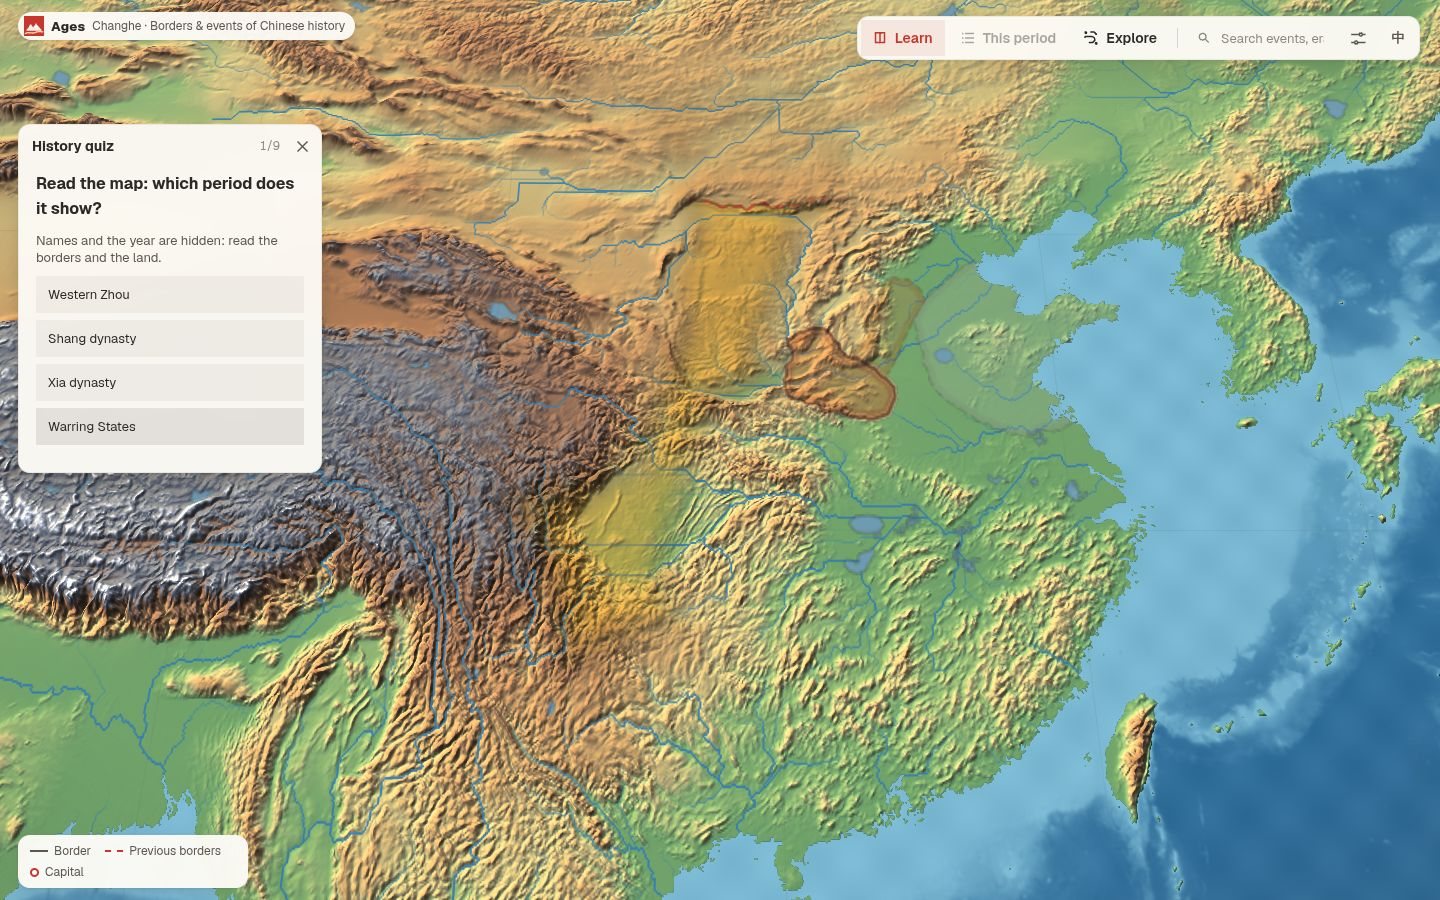
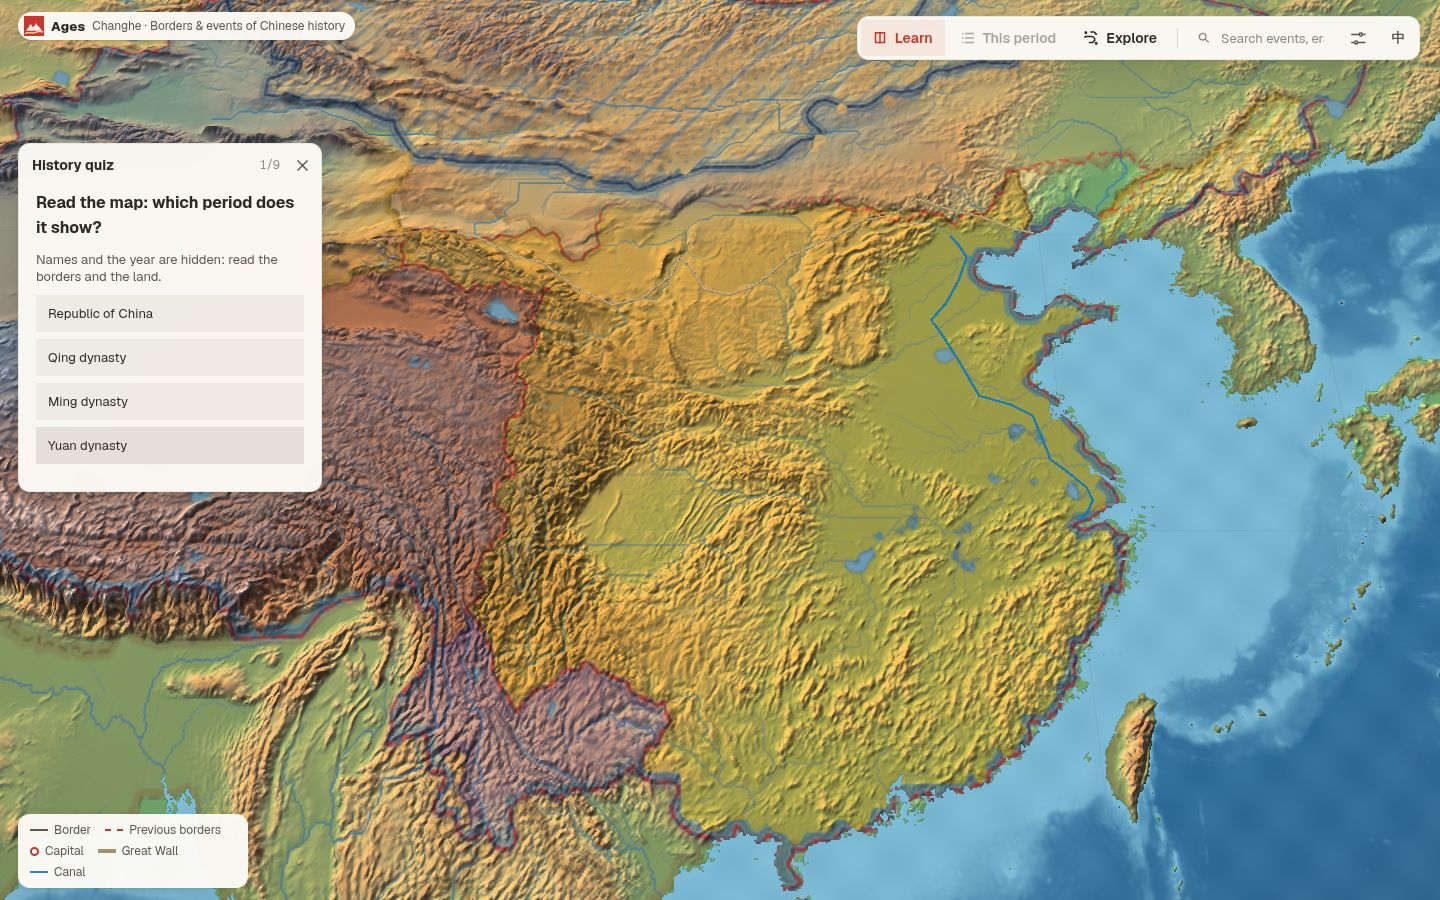
feat(quiz): 读图题 'what changed' — from a map to the next, which polity appears, is gone, grows or shrinks (#3)
The answer is the largest real change between consecutive maps (renamed or continued polities excluded, so 曹操(兖豫) → 曹操(北方) is not a change); wrong options are statements the two maps contradict, the reverse of a real change first, never about a polity named like the answer.

diff --git a/src/shared/lib/mapread.ts b/src/shared/lib/mapread.ts
@@ -11,9 +11,10 @@ import { eraAt, formatYear } from './timeline.ts';
  * - `period`: which period is this map?
  * - `polity`: which polity is highlighted? (the year is given)
  * - `first`: which of two maps, A or B, is earlier?
+ * - `change`: from map A to the next map B, what changed? (a polity appears, is gone, grows or shrinks)
  * Every question is generated from the territory snapshots, so it is always true to the map shown.
  */
-export type MapKind = 'period' | 'polity' | 'first';
+export type MapKind = 'period' | 'polity' | 'first' | 'change';
 export interface MapQuestion {
   type: 'map';
   kind: MapKind;
@@ -129,6 +130,96 @@ function firstQuestion(a: MapSnap, b: MapSnap): MapQuestion {
   };
 }
 
+/** A change between two maps: one polity's appearing, going, growing or shrinking (areas in thousand km²). */
+type ChangeKind = 'appear' | 'vanish' | 'grow' | 'shrink';
+interface Change { c: ChangeKind; p: Polity; a: number; b: number }
+
+/** The maps in time order, and each one's next. */
+const ORDERED = SNAPS.slice().sort((x, y) => x.mid - y.mid);
+const nextMap = (x: MapSnap): MapSnap | undefined => ORDERED[ORDERED.indexOf(x) + 1];
+
+/** Each polity's first and last map (index in ORDERED): a polity "appears" only on its first map, "is gone" after its last. */
+const LIFE = new Map<string, [number, number]>();
+ORDERED.forEach((x, i) => { for (const [id] of snapPolities(x.snap.id)) { const l = LIFE.get(id); LIFE.set(id, l ? [l[0], i] : [i, i]); } });
+
+/**
+ * What really changed from `a` to `b` (largest first), and statements the two maps clearly contradict, most tempting
+ * first (tier 0: the reverse of a real change; 1: growing or shrinking; 2: appearing or going while on both maps).
+ */
+function changes(a: MapSnap, b: MapSnap): { real: Change[]; fake: (Change & { tier: number })[] } {
+  const area = (x: MapSnap) => new Map(snapPolities(x.snap.id));
+  const A = area(a), B = area(b);
+  const ia = ORDERED.indexOf(a), ib = ORDERED.indexOf(b);
+  const shown = new Map<string, Polity>();
+  for (const o of [...onMap(a), ...onMap(b)]) shown.set(o.p.id, o.p);
+  // a polity renamed or carried on (曹操(兖豫) → 曹操(北方), 晋 → 东晋) neither appears nor goes
+  const core = (p: Polity) => p.name.zh.split(/[（(]/)[0].trim();
+  const names = (m: Map<string, number>) => [...m.keys()].map(id => POLITY.get(id)).filter((p): p is Polity => !!p).map(core);
+  const NA = names(A), NB = names(B);
+  const kin = (p: Polity, list: string[]) => { const c = core(p); return list.some(n => n !== '' && c !== '' && (n.includes(c) || c.includes(n))); };
+  const real: Change[] = [], fake: (Change & { tier: number })[] = [];
+  for (const p of shown.values()) {
+    const ka = A.get(p.id) ?? 0, kb = B.get(p.id) ?? 0;
+    const o = { p, a: ka, b: kb };
+    const [first, last] = LIFE.get(p.id) ?? [ia, ib];
+    const side = p.role === 'protectorate' ? 1 : 0;
+    if (!ka) { if (kb >= 100 && first === ib && !kin(p, NA)) real.push({ ...o, c: 'appear' }); fake.push({ ...o, c: 'vanish', tier: side }); continue; }
+    if (!kb) { if (ka >= 100 && last === ia && !kin(p, NB)) real.push({ ...o, c: 'vanish' }); fake.push({ ...o, c: 'appear', tier: side }); continue; }
+    const grow = kb >= ka * 1.5 && kb - ka >= 200, shrink = ka >= kb * 1.5 && ka - kb >= 200;
+    if (grow) real.push({ ...o, c: 'grow' });
+    if (shrink) real.push({ ...o, c: 'shrink' });
+    if (kb <= ka * 1.1) fake.push({ ...o, c: 'grow', tier: shrink ? 0 : 1 + side });
+    if (kb >= ka * 0.9) fake.push({ ...o, c: 'shrink', tier: grow ? 0 : 1 + side });
+    fake.push({ ...o, c: 'appear', tier: 2 + side }, { ...o, c: 'vanish', tier: 2 + side });
+  }
+  real.sort((x, y) => Math.max(y.a, y.b) - Math.max(x.a, x.b) || x.p.id.localeCompare(y.p.id));
+  return { real, fake };
+}
+
+function changeText(x: Change): I18n {
+  const n = x.p.name;
+  return x.c === 'appear' ? both(l => (l === 'zh' ? `${n.zh}出现在地图上` : `${n.en} appears on the map`))
+    : x.c === 'vanish' ? both(l => (l === 'zh' ? `${n.zh}从地图上消失` : `${n.en} is gone from the map`))
+    : x.c === 'grow' ? both(l => (l === 'zh' ? `${n.zh}的疆域明显扩大` : `${n.en} grows markedly`))
+    : both(l => (l === 'zh' ? `${n.zh}的疆域明显缩小` : `${n.en} shrinks markedly`));
+}
+
+/**
+ * From map A to the next map B, what changed? The right answer is the largest real change (so a missed question comes
+ * back the same); the wrong ones are statements the two maps clearly contradict, about other polities where possible.
+ */
+function changeQuestion(a: MapSnap, b: MapSnap, r: () => number): MapQuestion | null {
+  const { real, fake } = changes(a, b);
+  const right = real[0];
+  if (!right) return null;
+  // not about the answer's polity, nor one named like it (孙权(江东) next to 孙权(荆扬), two 奉系（张作霖）)
+  const plain = right.p.name.zh.replace(/[\s·・()（）\d年起]/g, '');
+  const pairs = Array.from({ length: Math.max(1, plain.length - 1) }, (_, i) => plain.slice(i, i + 2));
+  const like = (p: Polity) => pairs.some(x => p.name.zh.includes(x));
+  const pool = shuffle(fake.filter(f => f.p.id !== right.p.id && !like(f.p)), r).sort((x, y) => x.tier - y.tier);
+  const used = new Set<string>();
+  // one statement per polity first, the most tempting first
+  const each = pool.filter(f => !used.has(f.p.id) && !!used.add(f.p.id));
+  const picks = [...each, ...pool.filter(f => !each.includes(f))].slice(0, 3);
+  if (picks.length < 3) return null;
+  const opts = shuffle([right, ...picks], r).map(changeText);
+  const o = { options: opts, answer: opts.findIndex(x => x.zh === changeText(right).zh) };
+  const k = (n: number, l: 'zh' | 'en') => formatArea(n, l);
+  return {
+    type: 'map', kind: 'change', key: `map:change:${a.snap.id}:${b.snap.id}`, years: [a.mid, b.mid], ...o,
+    prompt: both(l => (l === 'zh'
+      ? `读图：从地图 A（${formatYear(a.mid, l)}）到地图 B（${formatYear(b.mid, l)}），发生了什么变化？`
+      : `Read the maps: from map A (${formatYear(a.mid, l)}) to map B (${formatYear(b.mid, l)}), what changed?`)),
+    why: both(l => {
+      const t = changeText(right)[l];
+      const d = right.c === 'appear' ? k(right.b, l) : right.c === 'vanish' ? k(right.a, l) : `${k(right.a, l)} → ${k(right.b, l)}`;
+      return l === 'zh'
+        ? `${t}（${d}）。A 是${a.era.name.zh}，B 是${b.era.name.zh}。`
+        : `${t} (${d}). A is ${a.era.name.en}; B is ${b.era.name.en}.`;
+    }),
+  };
+}
+
 function firstPair(r: () => number, eras: Era[]): MapQuestion | null {
   for (let guard = 0; guard < 20; guard++) {
     const ea = pick(eras, r);
@@ -144,8 +235,18 @@ function firstPair(r: () => number, eras: Era[]): MapQuestion | null {
   return null;
 }
 
+/** A change question on a map in the round's years and the one after it. */
+function changePair(snaps: MapSnap[], r: () => number): MapQuestion | null {
+  for (const x of shuffle(snaps, r)) {
+    const y = nextMap(x);
+    const q = y && changeQuestion(x, y, r);
+    if (q) return q;
+  }
+  return null;
+}
+
 /**
- * A round of map-reading questions, cycling period → polity → first, one era at a time so every period is met
+ * A round of map-reading questions, cycling period → polity → first → change, one era at a time so every period is met
  * (optionally only the years `range`, for a chapter).
  */
 export function makeMapQuiz(opts: { n?: number; seed?: number; range?: [Year, Year] } = {}): MapQuestion[] {
@@ -163,8 +264,9 @@ export function makeMapQuiz(opts: { n?: number; seed?: number; range?: [Year, Ye
     const snaps = byEra(era.id).filter(x => x.mid >= lo && x.mid <= hi);
     if (!snaps.length) continue;
     const x = pick(snaps, r);
-    const kind: MapKind = (['period', 'polity', 'first'] as const)[i % 3];
-    const q = kind === 'period' ? periodQuestion(x, r) : kind === 'polity' ? polityQuestion(x, r) : firstPair(r, eras);
+    const kind: MapKind = (['period', 'polity', 'first', 'change'] as const)[i % 4];
+    const q = kind === 'period' ? periodQuestion(x, r) : kind === 'polity' ? polityQuestion(x, r)
+      : kind === 'first' ? firstPair(r, eras) : changePair(snaps, r);
     if (!q || used.has(q.key)) continue;
     used.add(q.key);
     out.push(q);
@@ -183,5 +285,6 @@ export function mapQuestionFromKey(key: string, seed = 1): MapQuestion | null {
   if (kind === 'period') return periodQuestion(x, r);
   if (kind === 'polity') return polityQuestion(x, r, b);
   const y = b ? SNAP.get(b) : undefined;
-  return kind === 'first' && y ? firstQuestion(x, y) : null;
+  if (!y) return null;
+  return kind === 'first' ? firstQuestion(x, y) : kind === 'change' ? changeQuestion(x, y, r) : null;
 }

diff --git a/tests/unit/mapread.test.ts b/tests/unit/mapread.test.ts
@@ -1,6 +1,7 @@
 import { describe, expect, it } from 'vitest';
 import { snapPolities } from '../../src/shared/data/areas.ts';
 import { SNAPSHOTS } from '../../src/shared/data/territories.ts';
+import { POLITIES } from '../../src/shared/data/polities.ts';
 import { makeMapQuiz, mapQuestionFromKey, MAP_ERAS } from '../../src/shared/lib/mapread.ts';
 import { makeMistakeQuiz } from '../../src/shared/lib/quiz.ts';
 import { phaseAt } from '../../src/shared/lib/chronicle.ts';
@@ -12,10 +13,10 @@ const HAN = /[㐀-鿿]/;
 describe('读图题 (map-reading questions)', () => {
   const rounds = Array.from({ length: 40 }, (_, s) => makeMapQuiz({ seed: s + 1 }));
 
-  it('makes full rounds that cycle the three kinds', () => {
+  it('makes full rounds that cycle the four kinds', () => {
     for (const qs of rounds) {
       expect(qs).toHaveLength(9);
-      expect(new Set(qs.map(q => q.kind))).toEqual(new Set(['period', 'polity', 'first']));
+      expect(new Set(qs.map(q => q.kind))).toEqual(new Set(['period', 'polity', 'first', 'change']));
       expect(new Set(qs.map(q => q.key)).size).toBe(qs.length);
     }
   });
@@ -49,6 +50,13 @@ describe('读图题 (map-reading questions)', () => {
         expect(q.answer).toBe(q.years[0] < q.years[1] ? 0 : 1);
         expect(Math.abs(q.years[0] - q.years[1])).toBeGreaterThanOrEqual(50);
       }
+      if (q.kind === 'change') {
+        // map A and the very next map B
+        const [, , a, b] = q.key.split(':');
+        expect(phaseAt(q.years[1])?.snap.id).toBe(b);
+        expect(q.years[0]).toBeLessThan(q.years[1]);
+        expect(a).not.toBe(b);
+      }
     }
   });
 
@@ -66,7 +74,7 @@ describe('读图题 (map-reading questions)', () => {
   it('keeps a chapter round within its years', () => {
     const qs = makeMapQuiz({ n: 6, seed: 5, range: [581, 907] });
     expect(qs.length).toBe(6);
-    for (const q of qs.filter(x => x.kind !== 'first')) {
+    for (const q of qs.filter(x => x.kind === 'period' || x.kind === 'polity')) {
       expect(q.years[0]).toBeGreaterThanOrEqual(581);
       expect(q.years[0]).toBeLessThanOrEqual(907);
     }
@@ -86,6 +94,24 @@ describe('读图题 (map-reading questions)', () => {
 
   it('only uses snapshots of Chinese history that exist', () => {
     const ids = new Set(SNAPSHOTS.map(s => s.id));
-    for (const q of rounds.flat()) for (const id of q.key.split(':').slice(2, q.kind === 'first' ? 4 : 3)) expect(ids.has(id)).toBe(true);
+    for (const q of rounds.flat()) for (const id of q.key.split(':').slice(2, q.kind === 'first' || q.kind === 'change' ? 4 : 3)) expect(ids.has(id)).toBe(true);
+  });
+
+  it('asks what changed from a map to the next, and the answer is what the maps show', () => {
+    const qs = rounds.flat().filter(q => q.kind === 'change');
+    expect(new Set(qs.map(q => q.key)).size).toBeGreaterThan(20);
+    for (const q of qs) {
+      const [, , a, b] = q.key.split(':');
+      const A = new Map(snapPolities(a)), B = new Map(snapPolities(b));
+      const right = q.options[q.answer].zh;
+      const p = [...POLITIES].find(x => right.startsWith(x.name.zh) && (A.has(x.id) || B.has(x.id)));
+      expect(p, right).toBeTruthy();
+      const ka = A.get(p!.id) ?? 0, kb = B.get(p!.id) ?? 0;
+      if (right.endsWith('出现在地图上')) { expect(ka).toBe(0); expect(kb).toBeGreaterThan(0); }
+      else if (right.endsWith('从地图上消失')) { expect(kb).toBe(0); expect(ka).toBeGreaterThan(0); }
+      else if (right.endsWith('明显扩大')) expect(kb).toBeGreaterThanOrEqual(ka * 1.5);
+      else expect(ka).toBeGreaterThanOrEqual(kb * 1.5);
+      expect(q.why.zh.startsWith(right)).toBe(true);
+    }
   });
 });

diff --git a/tests/e2e/app.spec.ts b/tests/e2e/app.spec.ts
@@ -482,7 +482,7 @@ test.describe('Ages atlas', () => {
     expect(errs).toEqual([]);
   });
 
-  test('读图题: reads unlabelled maps — period, highlighted polity, which came first', async ({ page }) => {
+  test('读图题: reads unlabelled maps — period, highlighted polity, which came first, what changed', async ({ page }) => {
     const errs = watchErrors(page);
     await openApp(page, 'y=700&lang=en');
     await practice(page, 'path-quiz');
@@ -518,7 +518,7 @@ test.describe('Ages atlas', () => {
       await quiz.locator('[data-act=next]').click();
     }
     await expect(quiz.locator('.qz-done')).toContainText(`${total - 1}/${total}`);
-    expect(kinds).toEqual(new Set(['period', 'polity', 'first']));
+    expect(kinds).toEqual(new Set(['period', 'polity', 'first', 'change']));
     const missed = await page.evaluate(() => [...(window as any).__atlas.progress.mistakes].filter((k: string) => k.startsWith('map:')));
     expect(missed).toHaveLength(1);
     await quiz.locator('[data-act=close], header .ib').first().click();

diff --git a/src/client/lib/i18n.ts b/src/client/lib/i18n.ts
@@ -140,7 +140,7 @@ const S = {
   qmEvents: { zh: '史事问答', en: 'Events' },
   qmEventsDesc: { zh: '年份 · 地点 · 先后', en: 'When, where and in what order' },
   qmMaps: { zh: '读图题', en: 'Read the map' },
-  qmMapsDesc: { zh: '不看名字，从疆域认出时期和政权', en: 'Tell the period and polity from the borders alone' },
+  qmMapsDesc: { zh: '不看名字，从疆域认出时期、政权和变化', en: 'Tell the period, the polity and what changed from the borders alone' },
   lsSource: { zh: '出处', en: 'Source' },
   rpTitle: { zh: '学习周报', en: 'Weekly report' },
   rpOpen: { zh: '本周报告', en: 'This week' },

diff --git a/README.md b/README.md
@@ -23,7 +23,7 @@ It is an original 3D re-imagining inspired by [jiangshan-map](https://github.com
 * **42 procedural 3D models** built from primitives in Web Workers, with simple rigs (flags flap, wheels spin, smoke rises).
 * **Wikipedia reader** in Chinese (简体) or English, unfolding beside the card: lead and every section as plain paragraphs (nothing folded), image, reading time and a link to the full article. It falls back through interlanguage links and works offline gracefully.
 * **History course (历史课堂)**: 31 lessons, one per textbook unit (七上 to 八下 and 高中《中外历史纲要》上), in the style of a geography classroom. Each lesson walks through 5–8 steps that drive the map (year, camera, highlighted polity, event model, ▶ watch), then a 随堂检测 with multiple-choice, time-order and find-it-on-the-map questions, explanations after each answer, a score, take-aways, review links and the next lesson. Each unit also has a unit test, progress is saved locally, and lessons have `#lesson=<id>` links. See [docs/design/course.md](docs/design/course.md).
-* **读图题 — Read the map**: a quiz mode that hides every name, the year, the timeline and the models, leaving only borders and relief. Learners tell the period of a map, name a highlighted polity (the year is given) or pick the earlier of two maps A/B; answering brings the names back on the same map and explains it. Questions are generated from the territory snapshots, so they are always true to the map shown, and missed ones go to mistake review. This trains 时空观念, the skill a chat model cannot show or grade (see [docs/product/monetization.md](docs/product/monetization.md)).
+* **读图题 — Read the map**: a quiz mode that hides every name, the year, the timeline and the models, leaving only borders and relief. Learners tell the period of a map, name a highlighted polity (the year is given) pick the earlier of two maps A/B, or say what changed from one map to the next (a polity appears, is gone, grows or shrinks); answering brings the names back on the same map and explains it. Questions are generated from the territory snapshots, so they are always true to the map shown, and missed ones go to mistake review. This trains 时空观念, the skill a chat model cannot show or grade (see [docs/product/monetization.md](docs/product/monetization.md)).
 * **Mastery and weekly report**: every answer, lesson step, card and story updates a per-event mastery level (new → seen → practised → mastered on a second day; due again after 3, 14 or 30 days; weak after a miss). The learning path shows *What I know* with a bar and per-chapter hairlines, colours the events to know by mastery and offers *Today's review* (missed questions plus events falling due). *My map* puts every event to know on the map, marked by mastery. The weekly report (学习周报) shows the streak, days and answers against last week, mastery per chapter and what to review next, and saves as a 1080×1350 image or shares as text, from local progress only.
 * **Classroom (课堂演示) for teachers**: build a playlist from event cards (*Add to classroom*) or a whole chapter (*Present this chapter*), reorder it and give it a title; it is saved on the device. *Present* turns the screen into a projector view — no side panel or toolbar, one event at a time with a large caption, its year and summary, the map flying to it — stepped with the arrow keys or a clicker's Page Up / Down, `P` to play the event's 3D story, `Esc` to leave. *Copy link* shares it as `#show=e.qin_unify~j.<journey>…&st=<title>` (at most 40 known items), which opens the same playlist for students or colleagues.
 * **Quiz** in two modes. *History questions* has three types: *when* (pick the year), *where* (click the map; graded by distance) and *order* (sort events). *Ancient places* (古地名定位) asks where a period name was (五代十国时期的「祯州」在哪里？): place names are hidden, you click the map, score up to 100 by distance and earn an official rank (书院童生 → 太史令 · 舆图大家). Every answer is revealed on the map.

diff --git a/docs/product/spec.md b/docs/product/spec.md
@@ -30,7 +30,7 @@ not their size or text decoration.
 | Costumes | People are dressed for their era (Shang/Zhou robes, Qin–Han armour and caps, Tang futou, Song/Ming official dress, Qing queue and mandarin hat, Republic suits and uniforms) |
 | Wikipedia reader | unfolds beside the card (the W button or ‹ folds it back; on phones it takes the card's place); zh-CN / en switch; lead, then every section as headings and paragraphs (nothing folded), image, reading time; licence line; offline / missing states |
 | Learn | Books → units → events with progress bars; opening an event stacks its card over the textbook |
-| 读图题 | Read the map: the map without names, year, timeline or models; *which period*, *which highlighted polity* (year given), *which of maps A/B is earlier*; 9 per round generated from territory snapshots (`src/shared/lib/mapread.ts`); answering reveals the names; misses go to mistake review (`map:` keys) |
+| 读图题 | Read the map: the map without names, year, timeline or models; *which period*, *which highlighted polity* (year given), *which of maps A/B is earlier*, *what changed from map A to the next map B*; 9 per round generated from territory snapshots (`src/shared/lib/mapread.ts`); answering reveals the names; misses go to mistake review (`map:` keys) |
 | Quiz | History mode: 9 questions per round from the chosen book: when / where (map click, graded by km) / order; best score saved. Ancient-places mode: 10 period place names to find on the map with labels hidden, 0–100 points by distance and a final rank. Every answer is revealed on the map |
 | Search | Events, eras and places, matched in both languages; `/` focuses |
 | Menus | Hub (study: learn, quiz; journeys) and Settings (map style paper / ink / plain, layers, guqin music, full screen, quality 高画质 / 省电流畅 saved per device, language, help); zoom by wheel or pinch |

diff --git a/docs/product/monetization.md b/docs/product/monetization.md
@@ -26,7 +26,7 @@ The rule that follows: **charge for outcomes and for the map, never for the word
 
 ## 3. What to strengthen, in order
 
-1. **读图题 — map-reading drills** (first slice done: period, highlighted polity, which came first). Identify the period of an unlabelled map, name a highlighted polity, tell which of
+1. **读图题 — map-reading drills** (done: period, highlighted polity, which came first, what changed between two maps, a round per chapter). Identify the period of an unlabelled map, name a highlighted polity, tell which of
    two maps came first, say what changed between two phases. Exam-relevant, impossible in chat, built from data we have.
 2. **Mastery map.** Every key event and phase has a mastery level (seen → practised → mastered → due); the map itself
    lights up as the learner masters it, and "today's review" is one tap. This is what makes a learner come back daily.
@@ -77,7 +77,7 @@ US$4.99/month or US$29/year.
 
 | Issue | State |
 |---|---|
-| #3 读图题 | first slice shipped (period / polity / which came first); chapter sprints and "what changed" open |
+| #3 读图题 | shipped: period / polity / which came first / what changed, a round per chapter; drawing the border open |
 | #4 Mastery | shipped: levels, Today's review, My map |
 | #5 Classroom | shipped: playlists, presentation mode, `#show=` links; classes and results need the backend |
 | #6 Content trust | sources on every path-lesson step; flagged facts reviewed; a teacher's review still advised |
